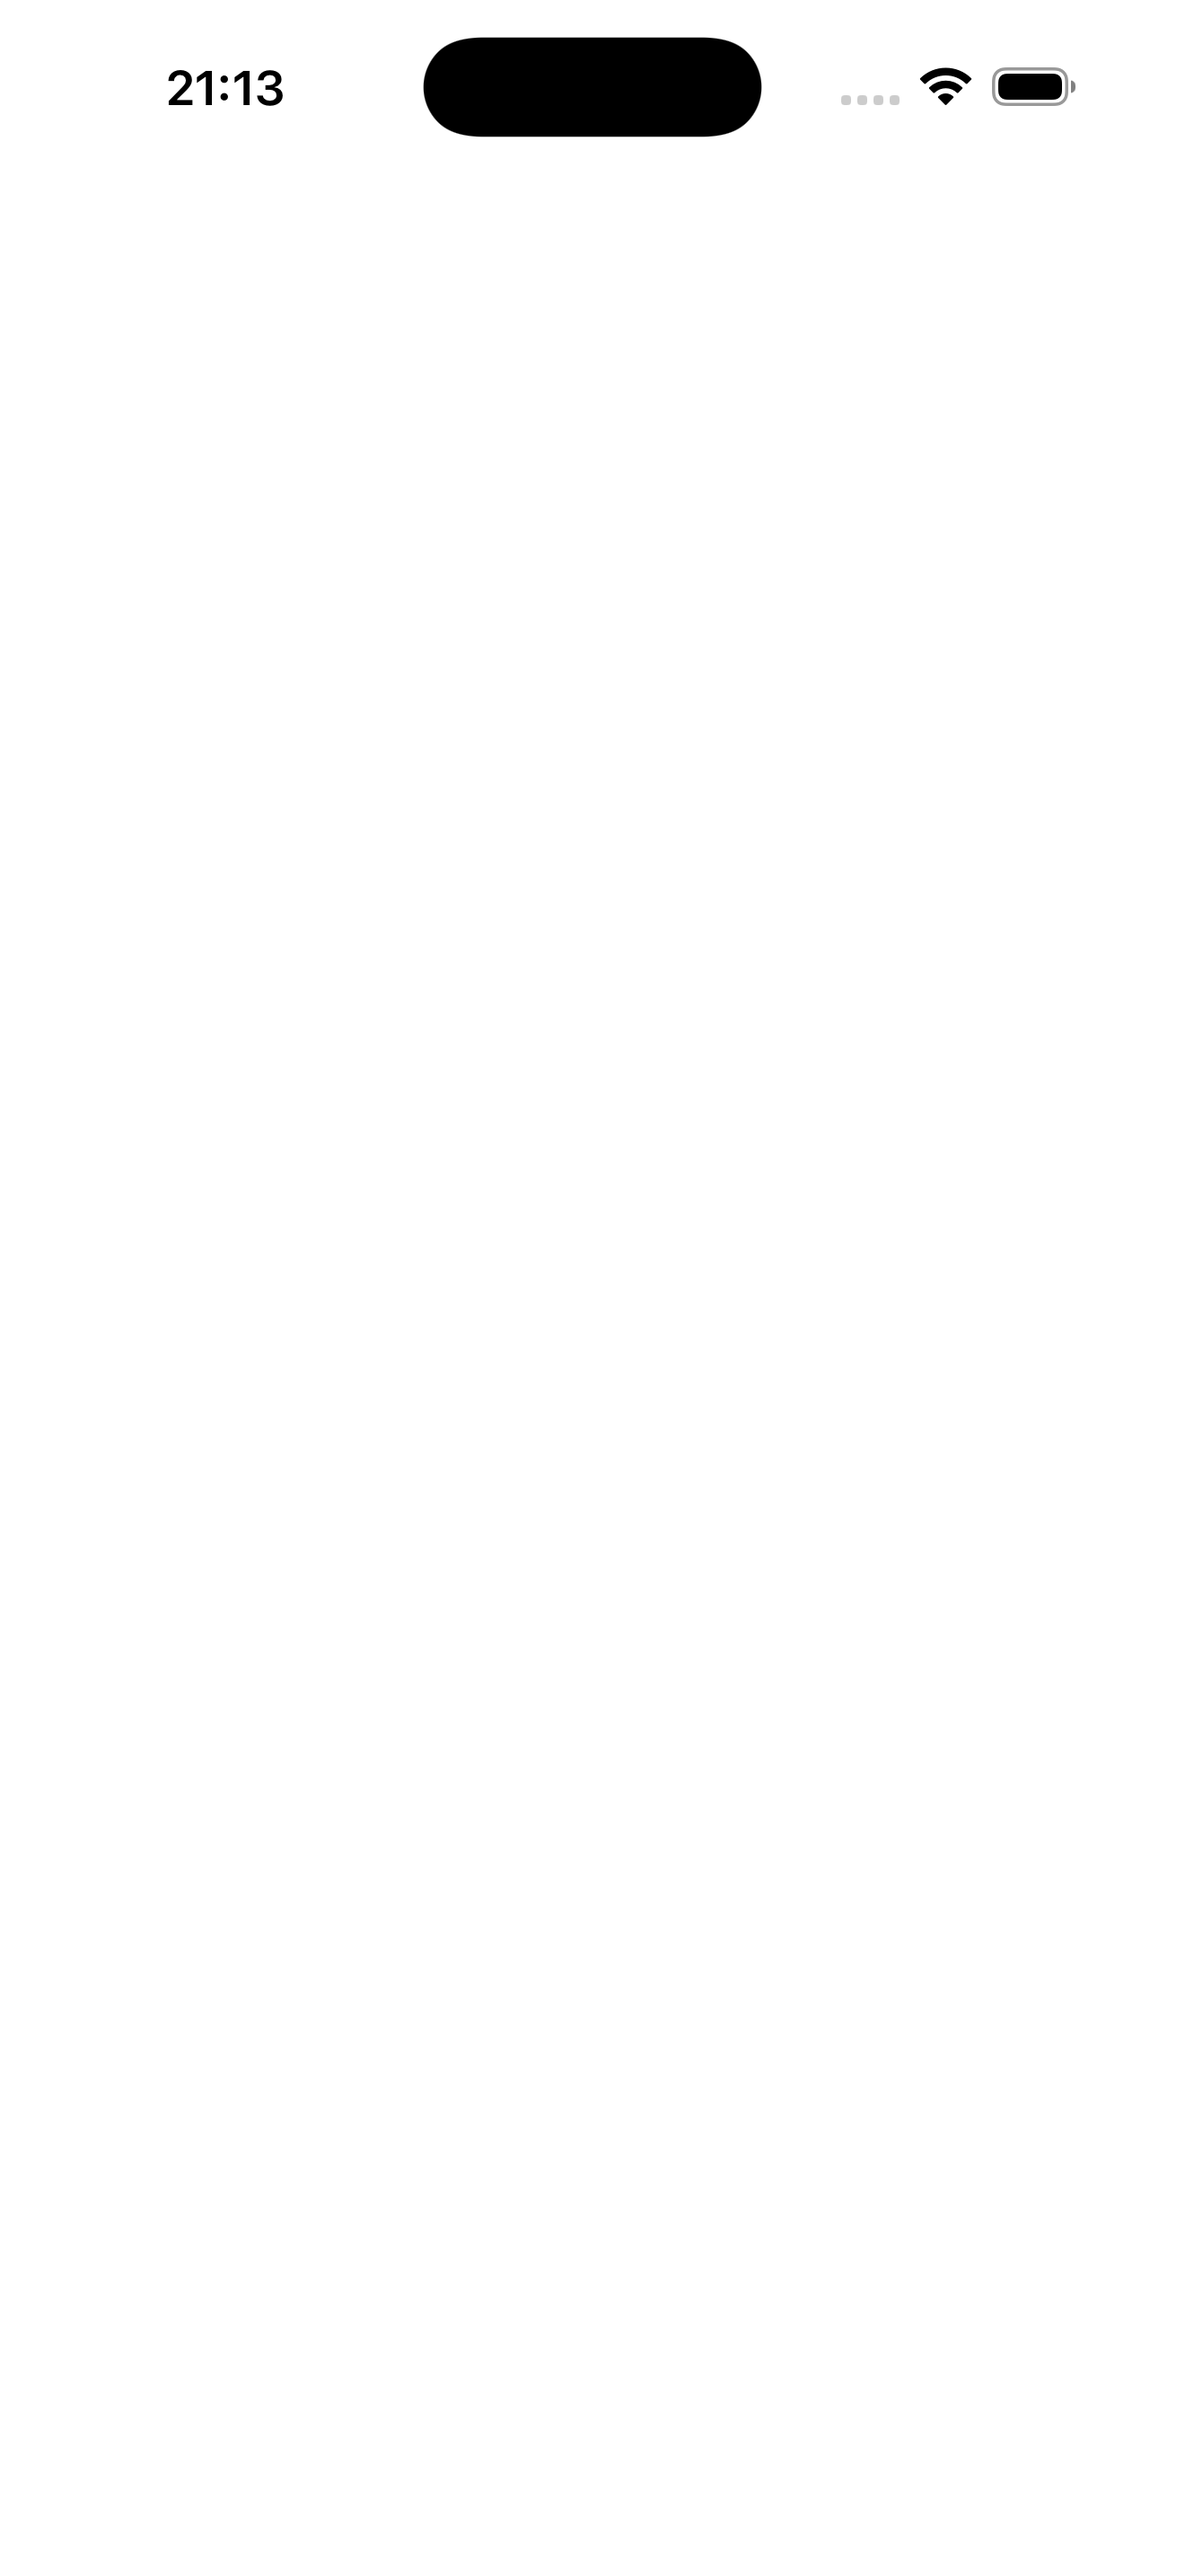
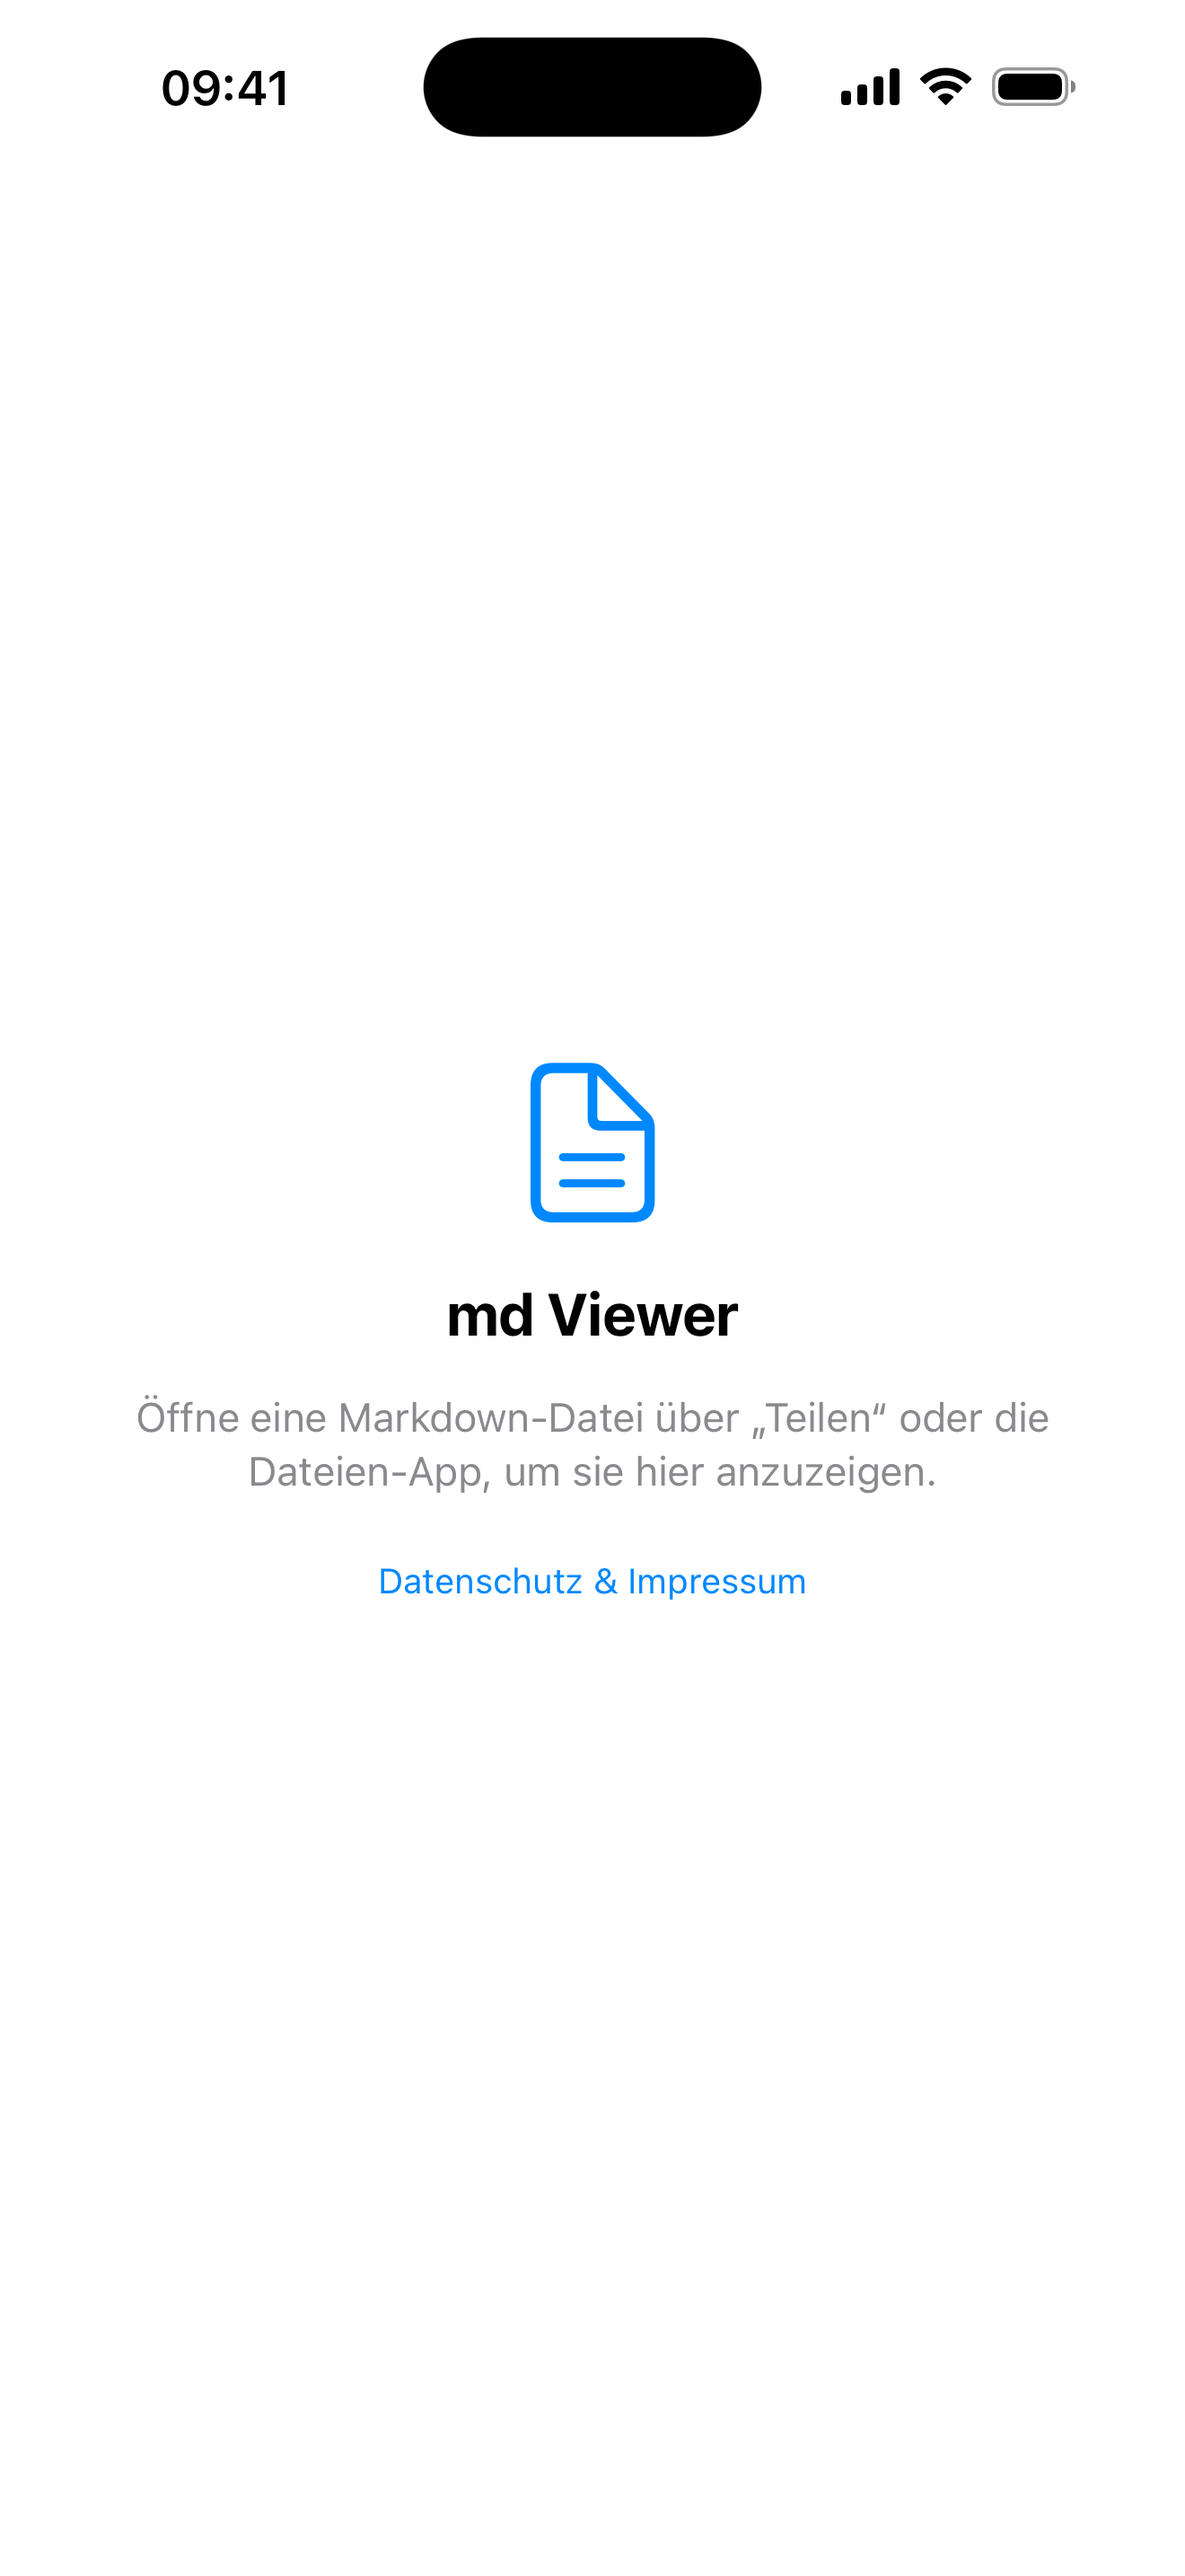
App-Store-Screenshots iPhone 6,9": Set neu erzeugt (aktueller Build)
- 01-05 neu im iPhone-17-Pro-Max-Simulator aufgenommen, 1320x2868.
- 01-empty-state.png war vorher praktisch leer (zu frueh abgegriffen) -
  zeigt jetzt den Startbildschirm mit Hinweis + Datenschutz-Link.
- Saubere Statusleiste (09:41, voller Akku, WLAN) statt 21:14/laedt.
- Beispiel-Dokumente unter App-Store-Screenshots/demo-dokumente/
  eingecheckt, damit ein Screenshot-Lauf reproduzierbar ist.
- 06-oeffnen-mit.png (echtes Geraetefoto) unveraendert.

Claude-Session: https://claude.ai/code/session_01DhUaAFzbUSATVF6tynGaTG

diff --git a/App-Store-Screenshots/demo-dokumente/Sprachen & Emoji.md b/App-Store-Screenshots/demo-dokumente/Sprachen & Emoji.md
@@ -1,0 +1,27 @@
+# Emoji & alle Sprachen 🌍
+
+Volle Unicode-Unterstützung — nichts wird zum „Kästchen".
+
+## Emoji im Fließtext
+
+Fertig ✅, in Arbeit 🔧, blockiert ⛔, Idee 💡, wichtig ⭐, Bug 🐞. Reaktionen: 👍 🎉 🙌 🚀 ❤🔥
+
+## Rechts-nach-links
+
+**Arabisch:** مرحبا بالعالم — هذا نصّ تجريبي لعرض اللغة العربية.
+
+**Hebräisch:** שלום עולם — זהו טקסט לדוגמה בעברית.
+
+## Ostasiatische Schriften
+
+- 中文：这是一段中文示例文本。
+- 日本語：これはサンプルのテキストです。
+- 한국어: 이것은 예시 텍스트입니다.
+
+## Weitere
+
+**Griechisch:** Καλημέρα κόσμε · **Kyrillisch:** Привет, мир · **Devanagari:** नमस्ते दुनिया · **Thai:** สวัสดีชาวโลก
+
+## Symbole & Mathe
+
+α · β · γ · ∑ · ∫ · √ · ≠ · ≤ · → · ∞ · µ · °C · € · £ · ¥

diff --git a/App-Store-Screenshots/demo-dokumente/Code-Beispiele.md b/App-Store-Screenshots/demo-dokumente/Code-Beispiele.md
@@ -1,0 +1,46 @@
+# Code-Schnipsel
+
+Inline-Code wie `git rebase -i` wird ebenso hervorgehoben wie ganze Blöcke.
+
+## Swift
+
+```swift
+struct DocumentView: View {
+    let fileURL: URL
+
+    var body: some View {
+        ScrollView {
+            Markdown(content)
+                .padding()
+                .frame(maxWidth: 720)
+        }
+        .navigationTitle(fileURL.lastPathComponent)
+    }
+}
+```
+
+## Python
+
+```python
+def render(path: str) -> str:
+    with open(path, encoding="utf-8") as f:
+        return markdown(f.read(), extensions=["tables", "fenced_code"])
+```
+
+## Shell
+
+```sh
+xcodebuild -scheme "md Viewer" -configuration Release \
+  -archivePath build/app.xcarchive archive
+```
+
+## JSON
+
+```json
+{
+  "name": "md Viewer",
+  "bundleId": "com.eribert.md-Viewer",
+  "offline": true,
+  "collectsData": false
+}
+```

diff --git a/App-Store-Screenshots/demo-dokumente/Team-Notiz.md b/App-Store-Screenshots/demo-dokumente/Team-Notiz.md
@@ -1,0 +1,28 @@
+# Projektnotizen: Q3-Launch
+
+Kurzer Statusüberblick für das Team — **Stand: Freitag**. Details wie immer im *geteilten Ordner*.
+
+## Nächste Schritte
+
+- [x] Design-Review abgeschlossen
+- [x] Barrierefreiheit geprüft (VoiceOver, Dynamic Type)
+- [ ] Backend-Tests fertigstellen
+- [ ] Release-Notes schreiben
+
+## Zeitplan
+
+| Meilenstein | Datum | Status |
+|---|---|---|
+| Beta-Freigabe | 02.09. | ✅ erledigt |
+| Feature-Freeze | 09.09. | 🔄 läuft |
+| Store-Einreichung | 16.09. | ⏳ geplant |
+
+## Vorgehen
+
+1. Branch von `main` abzweigen
+2. Änderung klein halten, früh committen
+3. Review anfordern, erst dann mergen
+
+> **Wichtig:** *Vor dem Release nochmal die Barrierefreiheit auf echten Geräten gegenprüfen.*
+
+Fragen bitte direkt im [Team-Chat](https://example.com/chat), nicht per Mail.

diff --git a/App-Store-Screenshots/demo-dokumente/Release-Matrix.md b/App-Store-Screenshots/demo-dokumente/Release-Matrix.md
@@ -1,0 +1,20 @@
+# Release-Matrix
+
+Breite Tabellen bleiben lesbar — einfach **horizontal wischen**.
+
+| Modul | Version | Plattform | Owner | Status | Risiko | Nächster Schritt |
+|---|---|---|---|---|---|---|
+| Rendering | 2.4.1 | iOS · iPadOS | A. Weber | stabil | niedrig | — |
+| Datei-Import | 1.8.0 | iOS · iPadOS | L. Chen | stabil | niedrig | Tests erweitern |
+| Teilen-Menü | 1.2.3 | iOS | M. Osei | stabil | mittel | Edge-Cases prüfen |
+| Fehlerseiten | 1.0.0 | iOS · iPadOS | A. Weber | neu | niedrig | Texte finalisieren |
+| Dark Mode | 3.1.0 | iOS · iPadOS | R. Bianchi | stabil | niedrig | — |
+
+## Kennzahlen
+
+| Kennzahl | Wert |
+|---|---|
+| Startzeit (kalt) | 0,4 s |
+| Speicher im Leerlauf | 22 MB |
+| Netzwerkzugriffe | 0 |
+| Unterstützte Encodings | UTF-8 |
